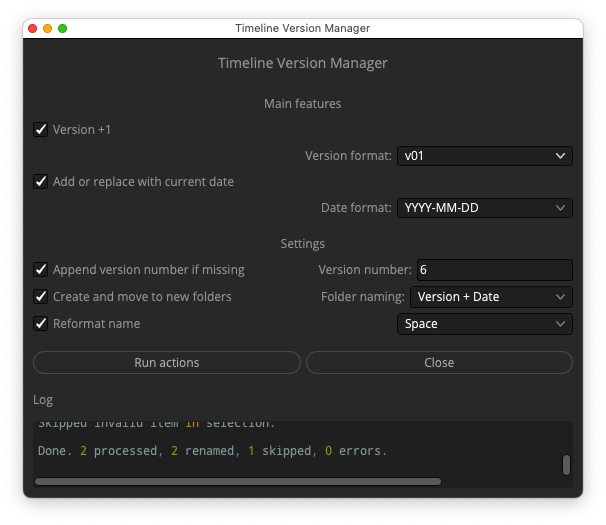
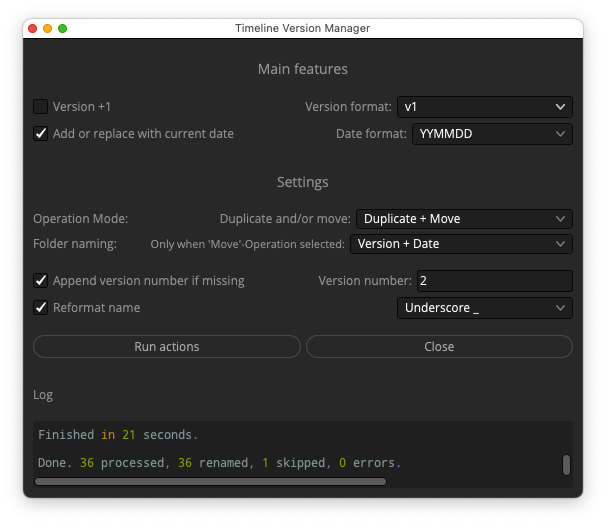
update code and added new features

diff --git a/README.md b/README.md
@@ -3,7 +3,7 @@
 [![DaVinci Resolve](https://img.shields.io/badge/DaVinci%20Resolve-Studio-blueviolet.svg)](https://www.blackmagicdesign.com/products/davinciresolve)
 [![PayPal](https://img.shields.io/badge/Donate-PayPal-blue.svg)](https://www.paypal.com/donate/?hosted_button_id=QFD3FZ8V2RLY2)
 
-A toolkit for automatic version management and batch renaming of timelines in DaVinci Resolve Studio. Supports both a graphical Lua GUI script (for use inside Resolve) and a legacy Python CLI script (for automated workflows).
+A toolkit for automatic version management and batch renaming of timelines in DaVinci Resolve Studio. Comes with a graphical GUI (for use inside Resolve) and a legacy Python CLI script (for automated workflows).
 
 ![Screenshot](/images/DVR-timeline-version-manager.png?raw=true "Screenshot")
 
@@ -19,29 +19,26 @@ A toolkit for automatic version management and batch renaming of timelines in Da
 - [Changelog](#changelog)
 - [License](#license)
 
-## Instructions for Python legacy CLI version
-For more detailed python script-specific instructions see: [Python CLI Script Documentation](./python-legacy-script/README_py.md) (⚠ legacy, not maintained).
-
 ## Overview
-This repository provides two powerful tools for managing timeline versions in DaVinci Resolve Studio:
+This repository provides a powerful tools for managing timeline versions in DaVinci Resolve Studio:
 
-- **Lua GUI Script**: A graphical tool for batch versioning, renaming, and organizing timelines directly inside DaVinci Resolve Studio.
-- **Python CLI Script**: A command-line tool for advanced users, automation, and scripting outside of Resolve.
+- **Lua GUI Script**: A graphical tool for batch versioning, renaming, and organizing timelines directly inside DaVinci Resolve Studio. It supports flexible version/date formats, automatic folder creation, and a range of customization options.
 
-Both tools support flexible version/date formats, automatic folder creation, and a range of customization options.
+## Legacy Python CLI version
+**Python CLI Script**: A command-line tool for advanced users, automation, and scripting outside of Resolve.
 
-> **Notice:** The Python script is no longer actively developed or maintained. For new projects and ongoing support, please use the Lua GUI script (`timeline_version_up.lua`).
+> **Notice:** The Python script is no longer actively developed or maintained. Please use the GUI Plugin (`timeline_version_manager.lua`).
+
+For more detailed python script-specific instructions see: [Python CLI Script Documentation](./python-legacy-script/README_py.md) (⚠ legacy, not maintained).
 
 ## Prerequisites
 - **DaVinci Resolve Studio** (the free version does not support scripting)
 - **Scripting enabled** in Resolve Preferences (Preferences > System > General > External scripting using: Local)
 - **Operating System:** macOS, Windows, or Linux (where Resolve Studio is supported)
-- For Python script: **Python 3.6+** and the `DaVinciResolveScript` module which usually comes with Resolve.
 
 ## Donate
 Thanks for using this script — I hope it helped with your work!  
-If it saved you time or proved useful, consider donating a coffee.  
-Your support helps keep the project going.
+If it saved you time or proved useful, please consider donating a coffee. Your support helps keep the project going.
 
 [![PayPal](https://img.shields.io/badge/Donate-PayPal-blue.svg)](https://www.paypal.com/donate/?hosted_button_id=QFD3FZ8V2RLY2)
 
@@ -76,38 +73,39 @@ Use responsibly, and only if you understand what the script does and how it affe
      /home/resolve/Fusion/Scripts/Edit
      ```
      depending on installation
-3. In DaVinci Resolve, open your project.
-4. The script will now appear in the **Workspace > Scripts** menu. You can also run it from the **Console** or **Script Editor** inside Resolve.
+3. In DaVinci Resolve, open your project, **enable scripting** in Resolve Preferences (Preferences > System > General > External scripting using: Local)
+4. The script will now appear in the **Workspace > Scripts** menu. You can also run it from the **Console** or **Script Editor** or assign a shortcut key to open the plugin inside Resolve.
 
 ## Features
 - **Graphical User Interface (Lua)**: Easy-to-use controls for all options.
 - **Batch Processing**: Rename and version multiple timelines at once.
 - **Flexible Version Formats**: Supports v1, v01, v001, V1, V01, V001, version1, version01, version001, Version1, Version01, Version001.
 - **Flexible Date Formats**: YYMMDD, YYYYMMDD, YYYY-MM-DD, MM-DD-YYYY, DD-MM-YYYY.
-- **Automatic Folder Creation**: Move new timelines to folders named by version, date, or both ("Version + Date").
+- **Automatic Folder Creation**: Move new timelines to folders named by version, date or version + date.
 - **Custom Name Formatting**: Convert spaces to underscores, minuses, or keep as-is.
-- **Comprehensive Logging**: See a summary and detailed log of all actions (GUI or log file).
+- **Comprehensive Logging**: See a summary and detailed log of all actions (GUI or console).
 
 ## Usage
 ### Lua GUI Script
 1. **Open DaVinci Resolve Studio** and load your project.
-2. In the **Media Pool**, select one or more timelines you want to version up or rename.
+2. In the **Media Pool**, select one or more timelines you want to operate.
 3. Go to **Workspace > Scripts** and run `timeline_version_manager.lua`.
 4. The GUI will appear with options for versioning, date formatting, folder creation, and more.
 5. Adjust the settings as needed:
    - **Version +1:** Increment version number in timeline names.
    - **Add/replace date:** Add or update the date in timeline names.
-   - **Append version if missing:** Add a version if none is present.
-   - **Create and move to new folders:** Duplicate timelines and move them to new folders based on your chosen scheme.
-   - **Name formatting:** Choose between spaces, underscores, or minuses.
    - **Version and date formats:** Select from a wide range of formats.
-6. Click **Start renaming** to process the selected timelines. Progress and results will be shown in the log area.
+   - **Append version if missing:** Add a version number if none is present.
+   - **Operation Mode:** Duplicate only, rename or duplicate and move timelines to new folders based on your chosen folder naming scheme.
+   - **Name formatting:** Choose between spaces, underscores, or minuses.
+6. Click **Run actions** to process the selected timelines. Progress and results will be shown in the log area or console.
 7. Review the Media Pool for new/renamed timelines and folders.
 
 ## Troubleshooting
+Always check the console log for errors first. Commen solutions and issues are:
 - **Script Visibility**: Some users may experience issues with scripts not appearing in the menu. Ensure that the correct script folder is selected.
+- **Plugin does not open**: The GUI may not appear if the script is run from the free version of DaVinci Resolve. Use DaVinci Resolve Studio instead. Make sure you are using the correct version.
 - **Timeline Processing**: If no timelines are processed, check the Console or Log Messages for errors. This issue often occurs if timelines are not selected in the Media Pool before running the script.
-- **GUI Display**: The GUI may not appear if the script is run from the free version of DaVinci Resolve instead of DaVinci Resolve Studio. Make sure you are using the correct version.
 - **Scripting API Errors**: Errors related to the scripting API can usually be resolved by ensuring that scripting is enabled in the Resolve Preferences.
 
 ### Known Issues
@@ -119,28 +117,27 @@ Your feedback is invaluable, please be patient as I work to resolve these issues
 
 ## Roadmap
 ### Planned Features
-1. **Enhanced Version Naming Options**
-   - Add new prefix options: "edit" or "Edit"
+1. **Save Custom Default Settings**
+   - Add button to save and load custom default settings
+2. **Enhanced Version Naming Options**
+   - Add new prefix options: "edit" or "Edit", "reel" or "Reel"
    - Add letter-based versioning: "A" through "G"
-   - Example naming pattern: "edit A v1" or "Edit B v002"
-
-2. **Visual Status Indicator**
+   - Example naming pattern: "edit A v1" or "Edit-B-v002"
+3. **Visual Status Indicator**
    - Add a color-coded status indicator in the GUI:
      - Orange: Ready to start
      - Red: Error occurred
      - Green: Successfully completed
-
-3. **Save Custom Default Settings**
-   - Add button to save/load custom default settings
-
 4. **Split current date functions to add and or replace dates.**
 
-## Changelog
-
-### Lua Script
-#### v0.1.9 (2025-07-28)
+## Changelog (Lua Script)
+### v0.1.10 (2025-08-01)
+- Fixed version format handling
+- Added dropdown for operation mode selection (Duplicate/Duplicate+Move/Rename)
+- Improved UI layout
+### v0.1.9 (2025-07-28)
 - updated default settings
-#### v0.1.8 (2025-06-20)
+### v0.1.8 (2025-06-20)
 - **Refactoring & Performance**:
   - Major code refactoring for improved readability and maintainability.
   - Replaced complex `if/else` logic with more efficient table-driven approaches for better performance.
@@ -150,15 +147,12 @@ Your feedback is invaluable, please be patient as I work to resolve these issues
   - Resolved an issue with the execution timer reporting incorrect durations. It now accurately measures real-world time.
 - **Features**:
   - Added an execution timer to the log to show how long the script took to process the timelines.
-
-#### v0.1.1 (2024-06-19)
+### v0.1.1 (2024-06-19)
 - Added support for version formats: Version1, Version01, Version001
 - Improved folder creation logic for "Version + Date" mode
 - Bugfixes and usability improvements
-
-#### v0.1.0
+### v0.1.0
 - Initial release: GUI for timeline versioning, date formatting, folder creation, and batch renaming
 
 ## License
-GNU GPL 3 License - See LICENSE file for details 
- 
+GNU GPL 3 License - See LICENSE file for details
